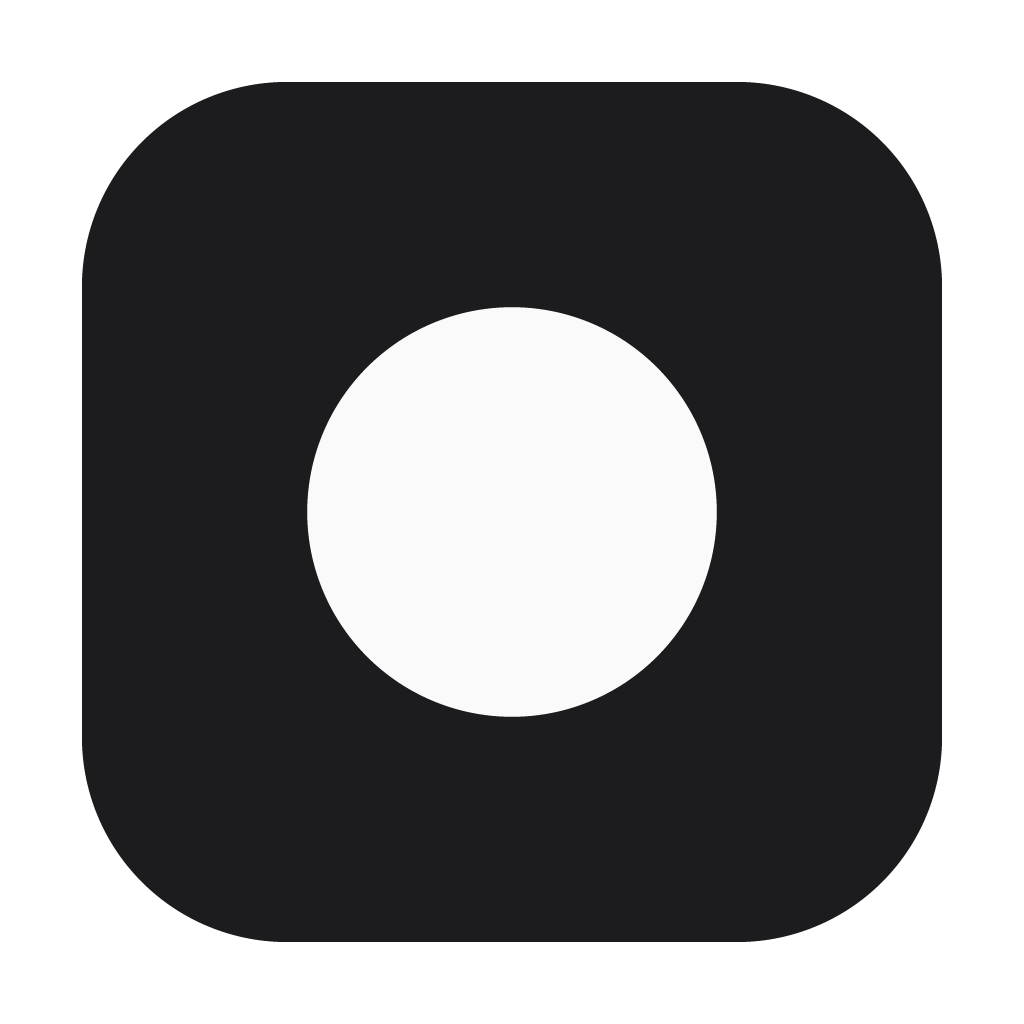
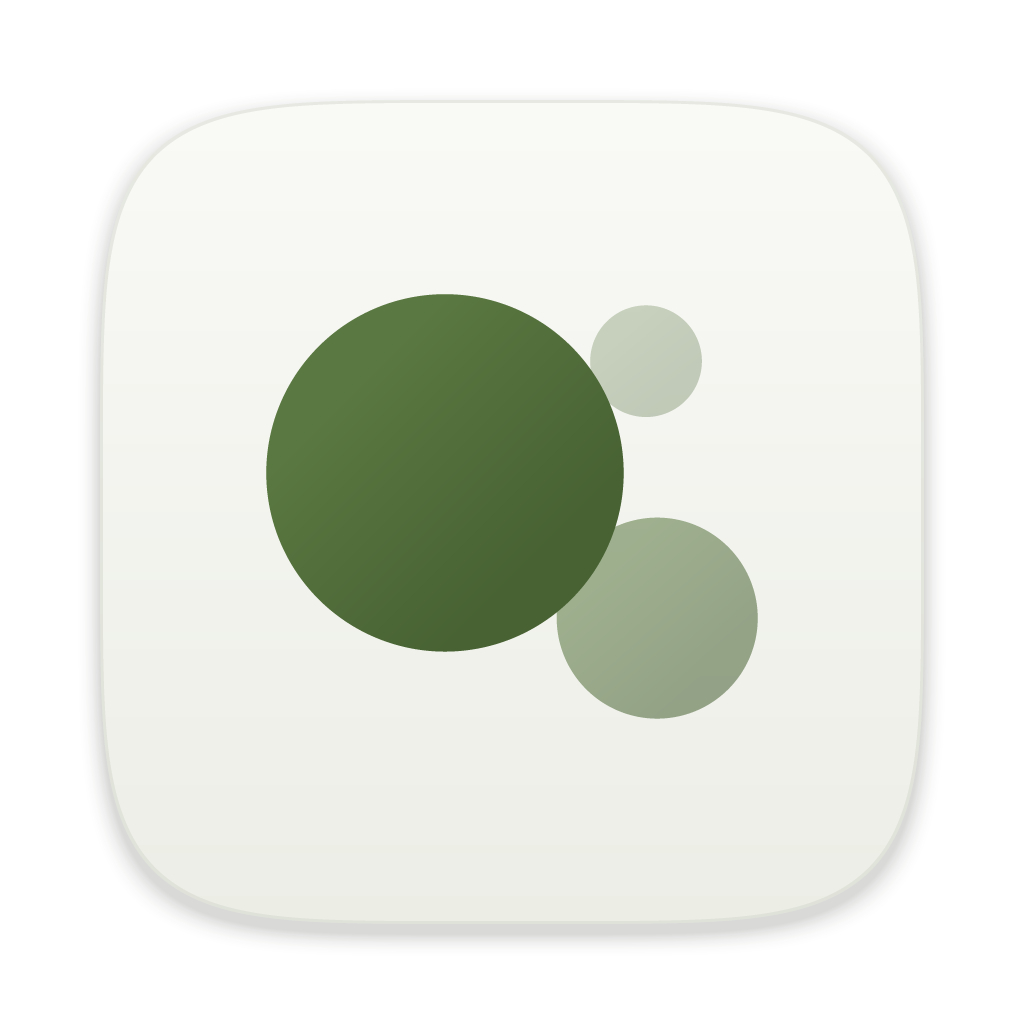
桌面壳：关窗口改为隐藏（再打开不再白屏），去掉 macOS 标题栏、红绿灯嵌进顶栏，换图标为三粒叶绿光斑，App 名改为 komo；记忆列表表头不再压住第一行

diff --git a/apps/desktop/src/main/window.ts b/apps/desktop/src/main/window.ts
@@ -12,6 +12,8 @@ export class WindowManager {
   /** 界面是否登记了 onOpenSession：登记了就用事件打开会话（不重载页面），否则整页跳转。 */
   private sessionListening = false;
   private paletteQueued = false;
+  /** 真要退出了（菜单退出、⌘Q、重启装更新）：这时关窗口才真的销毁它。 */
+  private quitting = false;
 
   constructor(private readonly build: BuildInfo, private readonly appVersion: string) {
     this.lockDownSession();
@@ -43,6 +45,8 @@ export class WindowManager {
       minHeight: 480,
       show: false,
       backgroundColor: "#ffffff",
+      // macOS 不要系统标题栏：红绿灯嵌进界面 48px 高的顶栏，界面自己留位置、自己标拖动区（apps/client styles.css）
+      ...(process.platform === "darwin" ? { titleBarStyle: "hidden" as const, trafficLightPosition: { x: 18, y: 17 } } : {}),
       webPreferences: {
         preload: path.resolve(__dirname, "../preload/index.js"),
         contextIsolation: true,
@@ -58,6 +62,19 @@ export class WindowManager {
     });
     this.win = win;
     win.once("ready-to-show", () => win.show());
+    // 关窗口只是藏起来：App 还在菜单栏里，再打开（Dock、启动台、托盘）就是原来的页面。
+    // 真销毁的话，show() 里新建的窗口什么都没加载，是一片空白。
+    win.on("close", (event) => {
+      if (this.quitting) return;
+      event.preventDefault();
+      if (win.isFullScreen()) {
+        // 全屏下直接 hide 会留下一块黑屏的桌面空间：先退出全屏再藏
+        win.once("leave-full-screen", () => win.hide());
+        win.setFullScreen(false);
+      } else {
+        win.hide();
+      }
+    });
     win.on("closed", () => {
       this.win = undefined;
       this.sessionListening = false;
@@ -99,6 +116,10 @@ export class WindowManager {
 
   markSessionListening() {
     this.sessionListening = true;
+  }
+
+  markQuitting() {
+    this.quitting = true;
   }
 
   show() {

diff --git a/apps/desktop/src/main/index.ts b/apps/desktop/src/main/index.ts
@@ -10,12 +10,13 @@ import { WindowManager, isAppUrl } from "./window";
 
 // ---- 启动前要做的事（都必须在 ready 之前）----
 registerSchemes();
+// 本机冒烟用：指定 userData，免得和正在用的 App 共享连接配置。要在抢单实例锁之前：锁就放在 userData 里，
+// 先抢锁的话会撞上正在用的那个 App，这个直接退出。
+if (process.env.KOMO_DESKTOP_USER_DATA) app.setPath("userData", process.env.KOMO_DESKTOP_USER_DATA);
 if (!app.requestSingleInstanceLock()) {
   app.quit();
   process.exit(0);
 }
-// 本机冒烟用：指定 userData，免得和正在用的 App 共享连接配置。
-if (process.env.KOMO_DESKTOP_USER_DATA) app.setPath("userData", process.env.KOMO_DESKTOP_USER_DATA);
 
 const build = readBuildInfo();
 let pendingSession: string | undefined;
@@ -156,7 +157,10 @@ app.on("window-all-closed", () => {
   // 关窗口不退出：菜单栏图标还在，通知也照常来（macOS 惯例）。
 });
 app.on("activate", () => windows?.show());
-app.on("before-quit", () => system?.stop());
+app.on("before-quit", () => {
+  windows?.markQuitting();
+  system?.stop();
+});
 
 void app.whenReady().then(async () => {
   if (app.isPackaged) app.setAsDefaultProtocolClient("komo");
@@ -170,7 +174,7 @@ void app.whenReady().then(async () => {
     windows.show();
     windows.loadPage("settings");
   });
-  setupUpdater();
+  setupUpdater(() => windows.markQuitting());
 
   // 冷启动带着 komo:// 参数的情况（open-url 事件可能先于 ready，已经记进 pendingSession）。
   const link = process.argv.find((arg) => arg.startsWith("komo://"));

diff --git a/apps/client/src/styles.css b/apps/client/src/styles.css
@@ -88,6 +88,34 @@
   }
 }
 
+/* ---------- macOS 桌面壳：没有系统标题栏 ----------
+   红绿灯压在窗口左上角（trafficLightPosition，竖直居中在 48px 的顶栏里）。顶上 48px 整条当标题栏拖窗口；
+   拖动区按 DOM 顺序叠加，所以拖动条排在最前，之后所有能点的东西都声明 no-drag 挖出来。 */
+.titlebar {
+  display: none;
+}
+[data-desktop="darwin"] .titlebar {
+  display: block;
+  position: fixed;
+  inset: 0 0 auto;
+  height: 48px;
+  pointer-events: none;
+  -webkit-app-region: drag;
+  app-region: drag;
+}
+[data-desktop="darwin"]
+  :is(button, a, input, select, textarea, label, summary, [role="button"], [role="tab"], [role="menuitem"], [role="option"], [tabindex]) {
+  -webkit-app-region: no-drag;
+  app-region: no-drag;
+}
+/* 侧栏顶上的 komo 标记让到红绿灯右边；窄屏没有侧栏时，页头的"打开导航"按钮也让开 */
+[data-desktop="darwin"] .traffic-clear {
+  padding-left: 84px;
+}
+[data-desktop="darwin"] .traffic-clear-toggle {
+  margin-left: 68px;
+}
+
 /* ---------- 动效与正文 ---------- */
 @theme {
   --animate-spinner: spinner-turn 0.9s linear infinite;

diff --git a/apps/client/src/features/memory/memory-page.tsx b/apps/client/src/features/memory/memory-page.tsx
@@ -243,11 +243,12 @@ export function MemoryPage({ selected }: { selected: string | null }) {
             <SkeletonRows />
           ) : rows.length ? (
             <>
-              <div aria-hidden="true" className={cn(ROW_GRID, "h-8 items-center border-b border-border text-small text-muted max-[600px]:hidden")}>
+              {/* 列只有 76px，英文表头会折成两行：表头随内容长高、底对齐，不能定高（定高时第二行压在第一条记忆上） */}
+              <div aria-hidden="true" className={cn(ROW_GRID, "min-h-8 items-end border-b border-border pt-1 pb-1.5 text-small leading-4 text-muted max-[600px]:hidden")}>
                 <span />
                 <span>{m.memory_col_content()}</span>
-                <span className="justify-self-end">{m.memory_col_used()}</span>
-                <span className="justify-self-end">{m.memory_col_last()}</span>
+                <span className="justify-self-end text-right">{m.memory_col_used()}</span>
+                <span className="justify-self-end text-right">{m.memory_col_last()}</span>
                 <span />
               </div>
               <ul className="relative z-0">

diff --git a/apps/desktop/src/main/updater.ts b/apps/desktop/src/main/updater.ts
@@ -9,7 +9,8 @@ import { autoUpdater } from "electron-updater";
 const zh = () => app.getLocale().toLowerCase().startsWith("zh");
 const SIX_HOURS = 6 * 60 * 60 * 1000;
 
-export function setupUpdater() {
+/** `beforeInstall`：quitAndInstall 先关窗口再退出，不经过 before-quit，窗口得事先知道这次是真退出。 */
+export function setupUpdater(beforeInstall: () => void) {
   if (!app.isPackaged || process.env.KOMO_DESKTOP_NO_UPDATE) return;
   autoUpdater.autoDownload = true;
   autoUpdater.autoInstallOnAppQuit = true;
@@ -23,7 +24,10 @@ export function setupUpdater() {
         defaultId: 0,
       })
       .then(({ response }) => {
-        if (response === 0) autoUpdater.quitAndInstall();
+        if (response === 0) {
+          beforeInstall();
+          autoUpdater.quitAndInstall();
+        }
       });
   });
   void autoUpdater.checkForUpdates().catch(() => {});

diff --git a/apps/client/src/routes/__root.tsx b/apps/client/src/routes/__root.tsx
@@ -18,6 +18,10 @@ export const Route = createRootRouteWithContext<{ queryClient: QueryClient }>()(
   component: RootComponent,
 });
 
+// macOS 桌面壳去掉了系统标题栏（apps/desktop 的 window.ts）：在 <html> 上标出平台，styles.css 据此留出红绿灯的位置、
+// 把顶上一条当标题栏拖窗口。预渲染时没有 window，网页里没有 komoDesktop，都不标。
+if (typeof window !== "undefined" && window.komoDesktop?.platform) document.documentElement.dataset.desktop = window.komoDesktop.platform;
+
 // 壳（构建时预渲染的 `_shell.html`）里没有任何带语言的文字：语言是浏览器里的事。
 function RootDocument({ children }: { children: ReactNode }) {
   return (

diff --git a/apps/client/src/features/layout/app-shell.tsx b/apps/client/src/features/layout/app-shell.tsx
@@ -54,6 +54,8 @@ export function AppShell() {
   const sidebarClass = "flex min-h-0 flex-col border-r border-border bg-ground";
   return (
     <SidebarProvider value={context}>
+      {/* 桌面壳的拖窗口条（只在 macOS 桌面壳里显示，见 styles.css）：要排在最前，后面的按钮才能从拖动区里挖出来 */}
+      <div aria-hidden="true" className="titlebar" />
       <div className="grid h-svh grid-cols-[280px_minmax(0,1fr)] overflow-hidden max-[900px]:grid-cols-1">
         {narrow ? (
           <Sheet open={drawer} onOpenChange={setDrawer}>

diff --git a/apps/desktop/pages/page.css b/apps/desktop/pages/page.css
@@ -26,6 +26,9 @@ body {
   color: var(--ink);
   font: 14px/1.5 -apple-system, BlinkMacSystemFont, "SF Pro Text", "PingFang SC", sans-serif;
 }
+/* 窗口没有系统标题栏（window.ts）：提示页整页可拖，能点、能输入的挖出来 */
+body { -webkit-app-region: drag; }
+button, a, input, select, textarea, label, .button { -webkit-app-region: no-drag; }
 main { max-width: 520px; margin: 0 auto; padding: 56px 24px; }
 h1 { font-size: 20px; margin: 0 0 8px; font-weight: 600; }
 p { margin: 0 0 16px; }

diff --git a/apps/client/src/features/layout/sidebar.tsx b/apps/client/src/features/layout/sidebar.tsx
@@ -20,7 +20,7 @@ export function Sidebar() {
   const { closeDrawer, narrow } = useSidebarContext();
   return (
     <>
-      <div className="flex h-12 items-center gap-2 px-4">
+      <div className="traffic-clear flex h-12 items-center gap-2 px-4">
         <svg viewBox="0 0 28 28" aria-hidden="true" className="size-5.5">
           <circle cx="11" cy="12" r="8" fill="#4f6b38" />
           <circle cx="20.5" cy="18.5" r="4.5" fill="#4f6b38" fillOpacity="0.55" />

diff --git a/apps/client/src/features/layout/nav-toggle.tsx b/apps/client/src/features/layout/nav-toggle.tsx
@@ -6,5 +6,5 @@ import { useSidebarContext } from "./sidebar-context";
 export function NavToggle() {
   const { narrow, openDrawer } = useSidebarContext();
   if (!narrow) return null;
-  return <IconButton name="sidebar" label={m.nav_open()} onClick={openDrawer} className="max-[600px]:size-11" />;
+  return <IconButton name="sidebar" label={m.nav_open()} onClick={openDrawer} className="traffic-clear-toggle max-[600px]:size-11" />;
 }

diff --git a/apps/client/src/komo-desktop.d.ts b/apps/client/src/komo-desktop.d.ts
@@ -1,5 +1,7 @@
 // C2（Electron 壳）注入的 `window.komoDesktop`：没有桌面壳时不存在，所以每一项都是可选的。
 interface KomoDesktop {
+  /** 主进程的 `process.platform`（darwin / win32 / linux）。 */
+  platform?: string;
   /** ⌘K 菜单命令；返回取消订阅的函数。 */
   onCommandPalette?: (listener: () => void) => () => void;
   connection?: {
